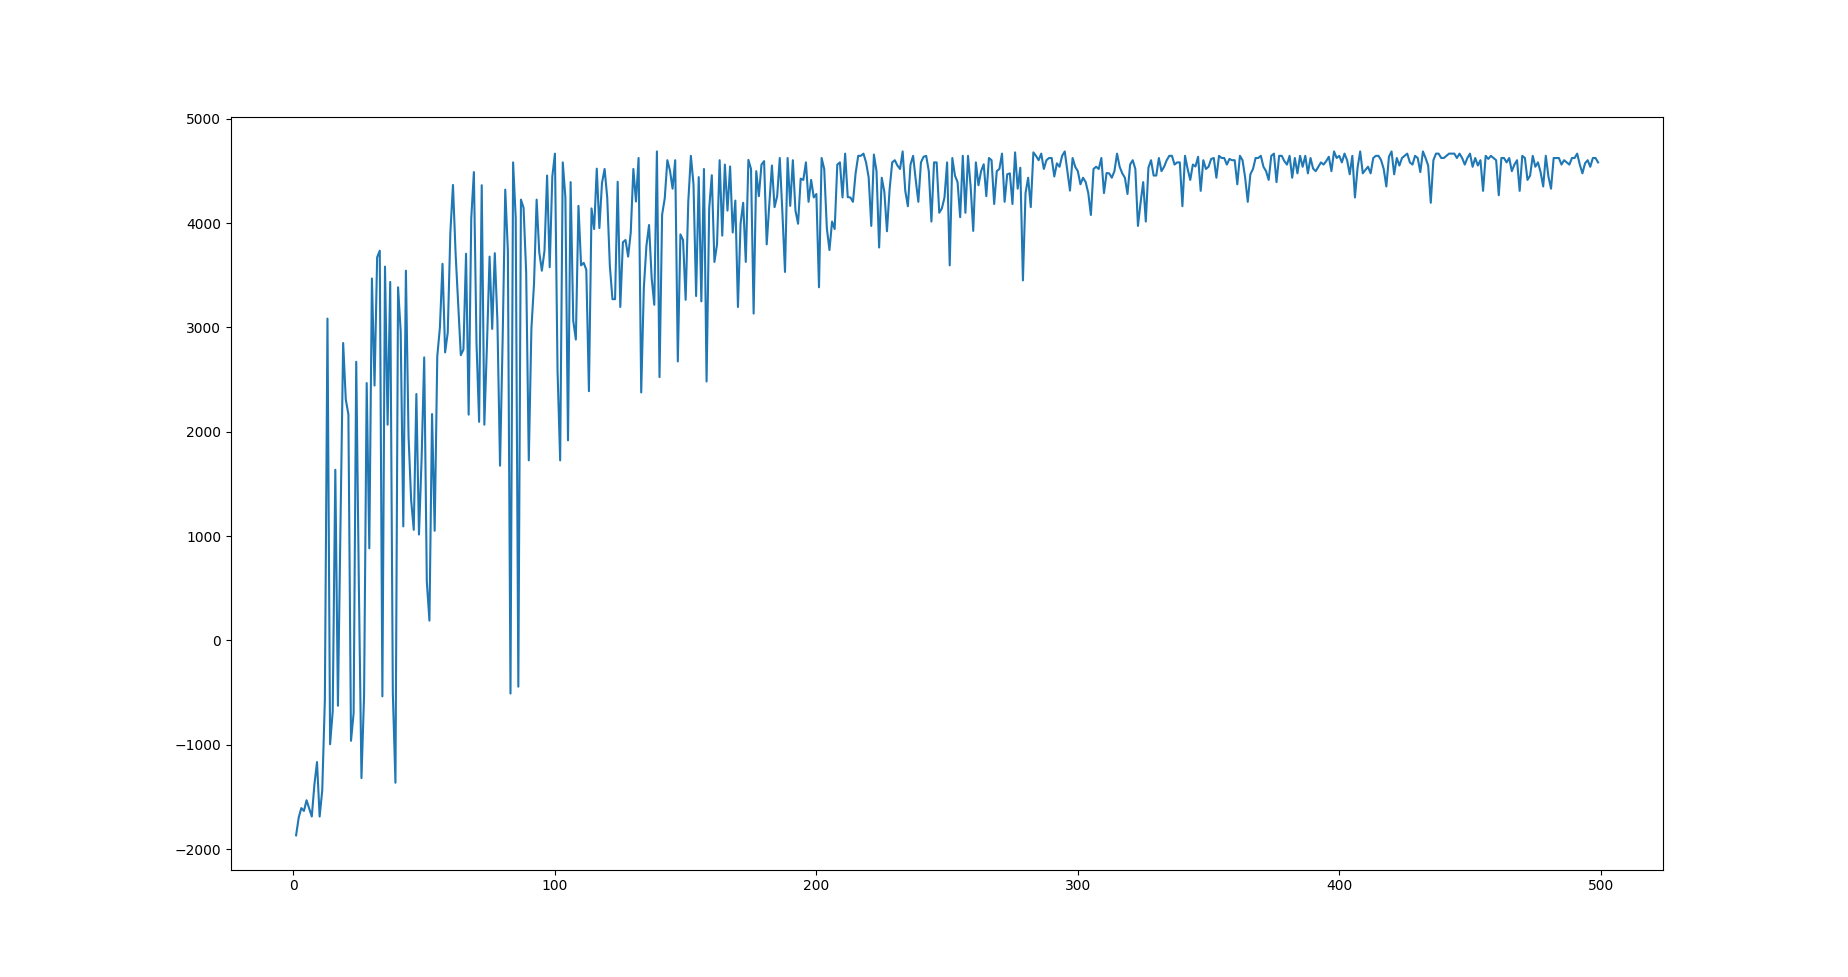
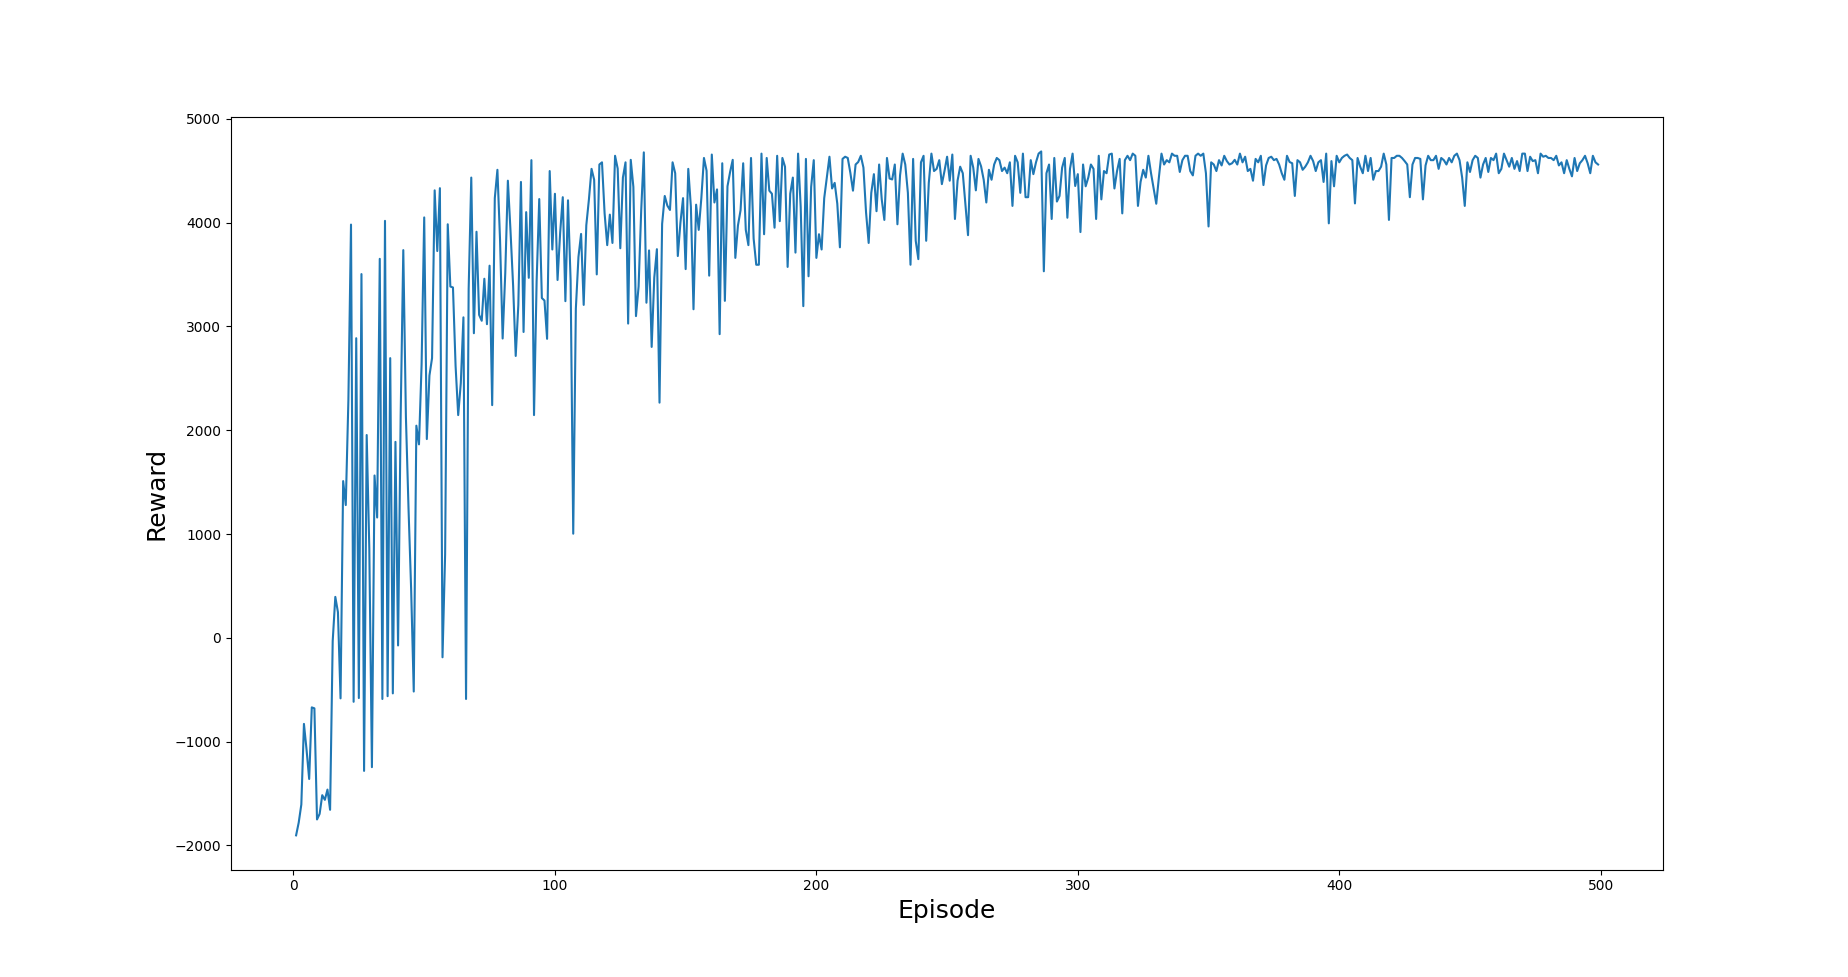
Name the axes.

diff --git a/index.py b/index.py
@@ -17,7 +17,6 @@ reward_list = []
 
 def epsilon_greedy_policy(no_of_actions):
     def generate_action(epsilon, action_value_of_s):
-        print(epsilon)
         uniform_prob = epsilon/(no_of_actions + 1)
         return np.random.choice([0, 1, 2, 3, 4, 5, np.argmax(action_value_of_s)], p=[uniform_prob, uniform_prob, uniform_prob,
                                                                                      uniform_prob, uniform_prob, uniform_prob, (uniform_prob)+(1-epsilon)])
@@ -50,9 +49,12 @@ for episode in range(1, total_episodes):
         total_reward += reward
 
     epsilon = (1/(episode))
+    print(learning_rate, epsilon)
 
     reward_list.append(total_reward)
 env.close()
 
+plt.xlabel('Episode', fontsize=18)
+plt.ylabel('Reward', fontsize=18)
 plt.plot([j for j in range(1, total_episodes)], reward_list)
 plt.show()
